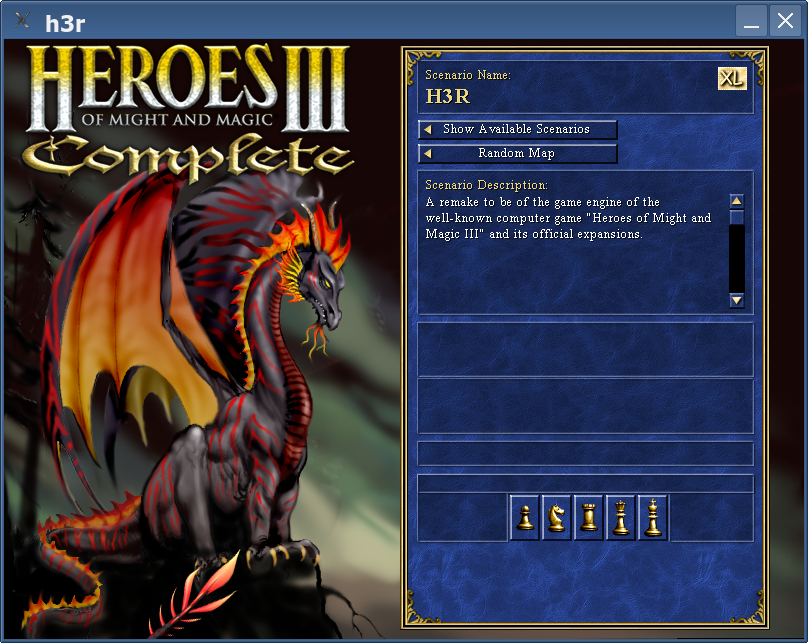
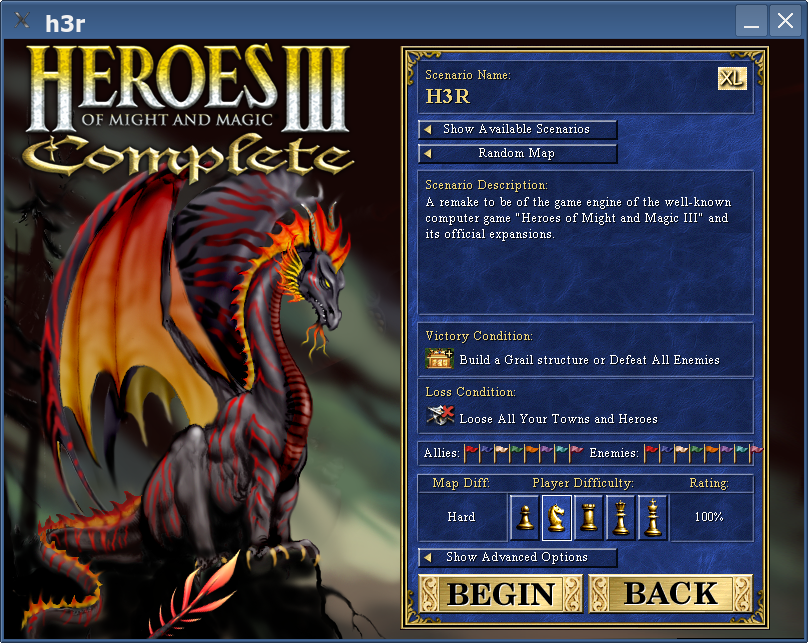
ui: new game dialog: all main elements + a working button group

diff --git a/ui/h3r_newgame.cpp b/ui/h3r_newgame.cpp
@@ -91,11 +91,11 @@ NewGameDialog::NewGameDialog(Window * base_window)
     H3R_CREATE_OBJECT(lbl, Label) {"Scenario Name:", "smalfont.fnt",
         Point {422, 28}, this, H3R_TEXT_COLOR_GOLD};
 
-    //TODO property; Scenario Name: bigfont.fnt, Gold,     422,50
+    //TODO Property; Scenario Name: bigfont.fnt, Gold,     422,50
     H3R_CREATE_OBJECT(lbl, Label) {"H3R", "bigfont.fnt",
         Point {422, 45}, this, H3R_TEXT_COLOR_GOLD};
 
-    //TODO property; Map Size Icon
+    //TODO Property; Map Size Icon
     static Array<byte> * bitmap {};
     Def sprite {Game::GetResource ("ScnrMpSz.def")};
     auto s1 = sprite.Query ("Scnr144z.pcx");
@@ -105,26 +105,25 @@ NewGameDialog::NewGameDialog(Window * base_window)
     bmp_data = bitmap->operator byte * ();
     RE->UploadFrame (RE->GenKey (), 714, 28, sprite.Width (), sprite.Height (),
         bitmap_data,
-        h3rBitmapFormat::RGBA, sprite.GetUniqueKey ("Scnr144z.pcx"), Depth ());
+        h3rBitmapFormat::RGBA, sprite.GetUniqueKey ("ScnrMpSz.def"), Depth ());
 
     // "Show Available Scenarios": smalfont.fnt, White, 440,85(up), 441,86(dn)
-    Button * tab_btn_ascen {};
-    H3R_CREATE_OBJECT(tab_btn_ascen, Button) {
+    Button * btn {};
+    H3R_CREATE_OBJECT(btn, Button) {
         "GSPBUTT.DEF", this, Button::H3R_UI_BTN_UPDN};
-    tab_btn_ascen->SetPos (414, 81);
-    tab_btn_ascen->UploadFrames ();
-    tab_btn_ascen->Click.Subscribe (this, &NewGameDialog::ToggleAvailScen);
-    tab_btn_ascen->SetText ("Show Available Scenarios", "smalfont.fnt",
+    btn->SetPos (414, 81);
+    btn->UploadFrames ();
+    btn->Click.Subscribe (this, &NewGameDialog::ToggleAvailScen);
+    btn->SetText ("Show Available Scenarios", "smalfont.fnt",
         H3R_TEXT_COLOR_WHITE);
 
     // "Random Map": smalfont.fnt, White, 475,109(up), 476,110(dn)
-    Button * tab_btn_rnd_scen {};
-    H3R_CREATE_OBJECT(tab_btn_rnd_scen, Button) {
+    H3R_CREATE_OBJECT(btn, Button) {
         "GSPBUTT.DEF", this, Button::H3R_UI_BTN_UPDN};
-    tab_btn_rnd_scen->SetPos (414, 105);
-    tab_btn_rnd_scen->UploadFrames ();
-    tab_btn_rnd_scen->Click.Subscribe (this, &NewGameDialog::ToggleRndScen);
-    tab_btn_rnd_scen->SetText ("Random Map", "smalfont.fnt",
+    btn->SetPos (414, 105);
+    btn->UploadFrames ();
+    btn->Click.Subscribe (this, &NewGameDialog::ToggleRndScen);
+    btn->SetText ("Random Map", "smalfont.fnt",
         H3R_TEXT_COLOR_WHITE);
 
     // "Scenario Description:": smalfont.fnt, Gold, 422,141
@@ -135,6 +134,7 @@ NewGameDialog::NewGameDialog(Window * base_window)
     // at x=740; after y=269. I won't reproduce the weird behavior of the
     // original, like word-wrapping with imaginary scroll-bar; and scroll-bar
     // jumping to max position on item switching.
+    //TODO Property
     H3R_CREATE_OBJECT(lbl, Label) {
         "A remake to be of the game engine of the well-known computer game "
         "\"Heroes of Might and Magic III\" and its official expansions.",
@@ -142,18 +142,169 @@ NewGameDialog::NewGameDialog(Window * base_window)
         Point {741-422, 270-155}};
 
     // "Victory Condition:": smalfont.fnt, Gold, 422,292
+    H3R_CREATE_OBJECT(lbl, Label) {"Victory Condition:", "smalfont.fnt",
+        Point {422, 289}, this, H3R_TEXT_COLOR_GOLD};
+    //TODO Property (bitmap+text)
+    // victory condition mini-icon: SCNRVICT.def (w:  29, h:  21):
+    //  name[ 0]: "ScnrVLaa.pcx" - a artifact
+    //  name[ 1]: "ScnrVLac.pcx" - a creatures
+    //  name[ 2]: "ScnrVLar.pcx" - a resources
+    //  name[ 3]: "ScnrVLut.pcx" - up town
+    //  name[ 4]: "ScnrVLbg.pcx" - grail
+    //  name[ 5]: "ScnrVLdh.pcx" - d hero
+    //  name[ 6]: "ScnrVLct.pcx" - capture town
+    //  name[ 7]: "ScnrVLdm.pcx" - d monster
+    //  name[ 8]: "ScnrVLfg.pcx" - flag cre dwe
+    //  name[ 9]: "ScnrVLfm.pcx" - flag mines
+    //  name[10]: "ScnrVLta.pcx" - transport art
+    //  name[11]: "ScnrVLwn.pcx" - defeat all
+    // They all have offset of t,l = 1,1 because?
+    // ScnrVL.def - unknown purpose - looks like specular highlight of the
+    //              above?! There is no similar thing for the Loss ones
+    //TODO see if the index access is better alternative to string access
+    Def spritev {Game::GetResource ("SCNRVICT.def")};
+    s1 = spritev.Query ("ScnrVLbg.pcx");
+    H3R_ENSURE(s1, "Sprite not found")
+    bitmap = s1->ToRGBA ();
+    H3R_ENSURE(bitmap, "Sprite->ToRGBA() failed")
+    bmp_data = bitmap->operator byte * ();
+    RE->UploadFrame (RE->GenKey (), 421 - spritev.Left (), 309 - spritev.Top (),
+        spritev.Width (), spritev.Height (), bitmap_data,
+        h3rBitmapFormat::RGBA, spritev.GetUniqueKey ("SCNRVICT.def"), Depth ());
     // Victory Condition: smalfont.fnt, White, 456,316
+    H3R_CREATE_OBJECT(lbl, Label) {
+        "Build a Grail structure or Defeat All Enemies", "smalfont.fnt",
+        Point {456, 313}, this, H3R_TEXT_COLOR_WHITE};
+
     // "Loss Condition:": smalfont.fnt, Gold, 422,348
+    H3R_CREATE_OBJECT(lbl, Label) {"Loss Condition:", "smalfont.fnt",
+        Point {422, 345}, this, H3R_TEXT_COLOR_GOLD};
+    //TODO Property (bitmap+text)
+    // loss condition mini-icon: SCNRLOSS.def    (w:  29, h:  21)
+    //  name[ 0]: "ScnrVLlt.pcx" - l town
+    //  name[ 1]: "ScnrVLlh.pcx" - l hero
+    //  name[ 2]: "ScnrVLtl.pcx" - time expires
+    //  name[ 3]: "ScnrVLls.pcx" - l all
+    // Again, they all have offset of t,l = 1,1 because?
+    Def spritel {Game::GetResource ("SCNRLOSS.def")};
+    s1 = spritel.Query ("ScnrVLls.pcx");
+    H3R_ENSURE(s1, "Sprite not found")
+    bitmap = s1->ToRGBA ();
+    H3R_ENSURE(bitmap, "Sprite->ToRGBA() failed")
+    bmp_data = bitmap->operator byte * ();
+    RE->UploadFrame (RE->GenKey (), 422 - spritel.Left (), 366 - spritel.Top (),
+        spritel.Width (), spritel.Height (), bitmap_data,
+        h3rBitmapFormat::RGBA, spritev.GetUniqueKey ("SCNRLOSS.def"), Depth ());
     // Loss Condition: smalfont.fnt, White, 456,375
+    H3R_CREATE_OBJECT(lbl, Label) {
+        "Loose All Your Towns and Heroes", "smalfont.fnt",
+        Point {456, 372}, this, H3R_TEXT_COLOR_WHITE};
+
     // "Allies:": smalfont.fnt, White, 420,409
+    H3R_CREATE_OBJECT(lbl, Label) {"Allies:", "smalfont.fnt",
+        Point {420, 406}, this, H3R_TEXT_COLOR_WHITE};
+    //TODO Property
+    // mini-static-flags: itgflags.def (w:  15, h:  20); 460, 405
+    //  name[ 0]: "iTG0LtBl.pcx"
+    //  name[ 1]: "iTG1Gren.pcx"
+    //  name[ 2]: "iTG2Red.pcx"
+    //  name[ 3]: "iTG3DkBl.pcx"
+    //  name[ 4]: "iTG4Brwn.pcx"
+    //  name[ 5]: "iTG5Prpl.pcx"
+    //  name[ 6]: "iTG6Whit.pcx"
+    //  name[ 7]: "iTG7Blak.pcx"
+    Def spritef {Game::GetResource ("itgflags.def")};
+    for (int i = 0; i < spritef.SpriteNum (0); i++) { // render all flags
+        s1 = spritef.Query (0, i);
+        H3R_ENSURE(s1, "Sprite not found")
+        bitmap = s1->ToRGBA ();
+        H3R_ENSURE(bitmap, "Sprite->ToRGBA() failed")
+        bmp_data = bitmap->operator byte * ();
+        RE->UploadFrame (RE->GenKey (), 460+ i*spritef.Width (), 405,
+            spritef.Width (), spritef.Height (), bitmap_data,
+            h3rBitmapFormat::RGBA, spritef.GetUniqueKey ("itgflags.def"),
+            Depth ());
+    }
+
     // "Enemies:": smalfont.fnt, White, 586,409
+    H3R_CREATE_OBJECT(lbl, Label) {"Enemies:", "smalfont.fnt",
+        Point {586, 406}, this, H3R_TEXT_COLOR_WHITE};
+    //TODO Property
+    //     7 max - the eight one is drawn over the border
+    for (int i = 0; i < spritef.SpriteNum (0); i++) { // render all flags
+        s1 = spritef.Query (0, i);
+        H3R_ENSURE(s1, "Sprite not found")
+        bitmap = s1->ToRGBA ();
+        H3R_ENSURE(bitmap, "Sprite->ToRGBA() failed")
+        bmp_data = bitmap->operator byte * ();
+        RE->UploadFrame (RE->GenKey (), 640+ i*spritef.Width (), 405,
+            spritef.Width (), spritef.Height (), bitmap_data,
+            h3rBitmapFormat::RGBA, spritef.GetUniqueKey ("itgflags.def"),
+            Depth ());
+    }
+
     // "Map Diff:": smalfont.fnt, Gold, 429,439
-    // "Player Difficulty:": smalfont.fnt, Gold, 529,439
-    // "Rating:": smalfont.fnt, Gold, 686,439
     // Map Diff: the text is centered at top=473,x=416;500
+    H3R_CREATE_OBJECT(lbl, Label) {"Map Diff:", "smalfont.fnt",
+        Point {429, 436}, this, H3R_TEXT_COLOR_GOLD};
+    //TODO Property
+    H3R_CREATE_OBJECT(lbl, Label) {"Hard", "smalfont.fnt",
+        Point {413, 454}, this, H3R_TEXT_COLOR_WHITE, false,
+        Point {503-413, 502-454}};
+
+    // "Player Difficulty:": smalfont.fnt, Gold, 529,439
+    H3R_CREATE_OBJECT(lbl, Label) {"Player Difficulty:", "smalfont.fnt",
+        Point {529, 436}, this, H3R_TEXT_COLOR_GOLD};
+    // diff. buttons: GSPBUT[3;7].DEF - 0-4 (w:  30, h:  46)
+    // Button group. New button behavior: the highlight sprite is used as
+    // checked state - not on mouse hover. The group is done by handling
+    // Checked.
+    // Rating: 80, 100, 130, 160, 200 [%] - the text changes based on button
+    //         clicked.
+    //TODO Property
+    for (int i = 0, j = 506; i < 5; i++, j+=32) {
+        H3R_CREATE_OBJECT(btn, Button) {
+            String::Format ("GSPBUT%d.DEF", i+3), this};
+        btn->SetPos (j, 456);
+        btn->UploadFrames ();
+        btn->Checked.Changed.Subscribe (this, &NewGameDialog::BtnGroup);
+        btn->Checkable = true;
+        _btn_grp[i] = btn;
+    }
+    _btn_grp[1]->Checked = true; // 100% is the default
+
+    // "Rating:": smalfont.fnt, Gold, 686,439
     // Rating: the text is centered at top=473,x=668;747
+    H3R_CREATE_OBJECT(lbl, Label) {"Rating:", "smalfont.fnt",
+        Point {686, 436}, this, H3R_TEXT_COLOR_GOLD};
+    //TODO Property
+    H3R_CREATE_OBJECT(lbl, Label) {"100%", "smalfont.fnt",
+        Point {665, 454}, this, H3R_TEXT_COLOR_WHITE, false,
+        Point {749-665, 502-454}};
+
     // "Show Advanced Options:" 443,513 (these appear to be centered at the long
     // buttons)
+    H3R_CREATE_OBJECT(btn, Button) {
+        "GSPBUTT.DEF", this, Button::H3R_UI_BTN_UPDN};
+    btn->SetPos (414, 509);
+    btn->UploadFrames ();
+    btn->Click.Subscribe (this, &NewGameDialog::ToggleAdvOpt);
+    btn->SetText ("Show Advanced Options", "smalfont.fnt",
+        H3R_TEXT_COLOR_WHITE);
+
+    // - another one: ScnrBeg.def   (w: 166, h:  40) ?!
+    H3R_CREATE_OBJECT(btn, Button) {
+        "ScnrBeg.def", this, Button::H3R_UI_BTN_UPDN};
+    btn->SetPos (414, 535);
+    btn->UploadFrames ();
+    btn->Click.Subscribe (this, &NewGameDialog::Begin);
+
+    // - button "back" : SCNRBACK.def (w: 166, h:  40) (n & s only)
+    H3R_CREATE_OBJECT(btn, Button) {
+        "SCNRBACK.def", this, Button::H3R_UI_BTN_UPDN};
+    btn->SetPos (584, 535);
+    btn->UploadFrames ();
+    btn->Click.Subscribe (this, &NewGameDialog::Back);
 }// NewGameDialog::NewGameDialog()
 
 NewGameDialog::~NewGameDialog() {}
@@ -192,6 +343,34 @@ void NewGameDialog::ToggleAvailScen(EventArgs *)
 
 void NewGameDialog::ToggleRndScen(EventArgs *)
 {
+}
+
+void NewGameDialog::ToggleAdvOpt(EventArgs *)
+{
+}
+
+void NewGameDialog::Begin(EventArgs *)
+{
+}
+
+void NewGameDialog::Back(EventArgs *)
+{
+    _dr = DialogResult::Cancel; _has_dr = true;
+}
+
+void NewGameDialog::BtnGroup(EventArgs * e)
+{
+    static bool working {};
+    if (working) return;
+    working = true;
+    H3R_ENSURE(nullptr != e, "EventArgs can't be null")
+    auto args = static_cast<Button::ButtonEventArgs *>(e);
+    H3R_ENSURE(nullptr != args, "EventArgs can't be null")
+    H3R_ENSURE(nullptr != args->Sender, "Sender can't be null")
+    for (int i = 0; i < 5; i++)
+        if (_btn_grp[i])
+            _btn_grp[i]->Checked = (_btn_grp[i] == args->Sender);
+    working = false;
 }
 
 NAMESPACE_H3R

diff --git a/ui/h3r_newgame.h b/ui/h3r_newgame.h
@@ -61,14 +61,14 @@ H3R_NAMESPACE
 //      2 dies with "?": HPSRAND4.PCX ?; heroes with "?": hpsrand.pcx ?
 //  - main: GSelPop1.pcx (370x585)
 //    [] background: gamselb(0|1).pcx (w: 800, h: 600) - randomly chosen
-//    - button "begin": GSPBGIN.DEF  (w: 166, h:  40)
-//      - another one: ScnrBeg.def   (w: 166, h:  40) ?!
-//    - button "back" : SCNRBACK.DEF (w: 166, h:  40) (n & s only)
+//    [] - another one: ScnrBeg.def   (w: 166, h:  40) ?!
+//         button "begin": GSPBGIN.DEF  (w: 166, h:  40)
+//    [] - button "back" : SCNRBACK.def (w: 166, h:  40) (n & s only)
 // <> This mess speaks of a 3rd party that is ordering it <>
 //    [] the odd long buttons (the tab switch ones): GSPBUT2.DEF ( has no < );
 //       ( has < ) : GSPBUTT.DEF      (w: 200, h:  20)
-//    - diff. buttons: GSPBUT[3;7].DEF - 0-4 (w:  30, h:  46)
-//    - mini-static-flags: itgflags.def      (w:  15, h:  20)
+//    [] diff. buttons: GSPBUT[3;7].DEF - 0-4 (w:  30, h:  46)
+//    [] mini-static-flags: itgflags.def      (w:  15, h:  20)
 //    [] quad arrow down button: ScnrBDn.def; correct and pointless: ScnrBUp.def
 //       the other two pointless ones: ScnrBLf.def, ScnrBRt.def
 //                                           (w:  16, h:  16)
@@ -77,8 +77,8 @@ H3R_NAMESPACE
 //       h:  16), SLIDEBUH.def(w:  16, h:  16), SLIDEBUV.def(w:  16, h:  16) ?!
 //    [] top-left mini-icon of the selected map size: ScnrMpSz.def
 //                                           (w:  29, h:  23)
-//    - victory condition mini-icon: SCNRVICT.def (w:  29, h:  21)
-//    - loss condition mini-icon: SCNRLOSS.def    (w:  29, h:  21)
+//    [] victory condition mini-icon: SCNRVICT.def (w:  29, h:  21)
+//    [] loss condition mini-icon: SCNRLOSS.def    (w:  29, h:  21)
 //  - tab: "Random Map": RanMapBk.pcx
 //  - tab: "Show Available Scenarios" SCSelBck.pcx
 //    - group by size buttons: RanSiz(L|M|S|X).def; "All": SCALBUT.DEF
@@ -116,6 +116,13 @@ class NewGameDialog : public DialogWindow, public IHandleEvents
     // private void HandleBackClick(EventArgs *);
     private void ToggleAvailScen(EventArgs *);
     private void ToggleRndScen(EventArgs *);
+    private void ToggleAdvOpt(EventArgs *);
+    private void Begin(EventArgs *);
+    private void Back(EventArgs *);
+
+    // The difficulty group; I don't see a reason to create a class yet.
+    private void BtnGroup(EventArgs *);
+    private Button * _btn_grp[5] {}; // refs
 };
 
 NAMESPACE_H3R
